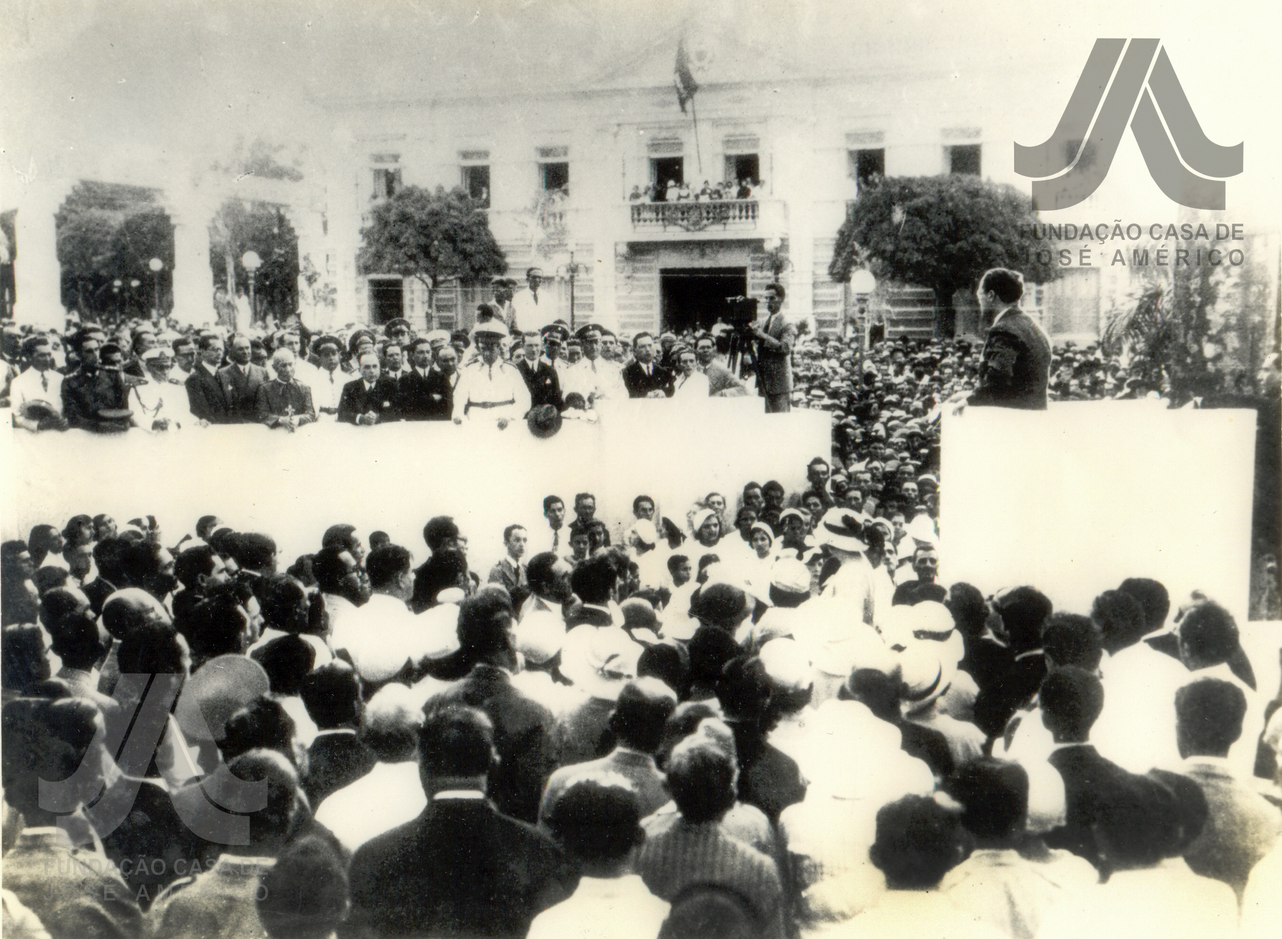
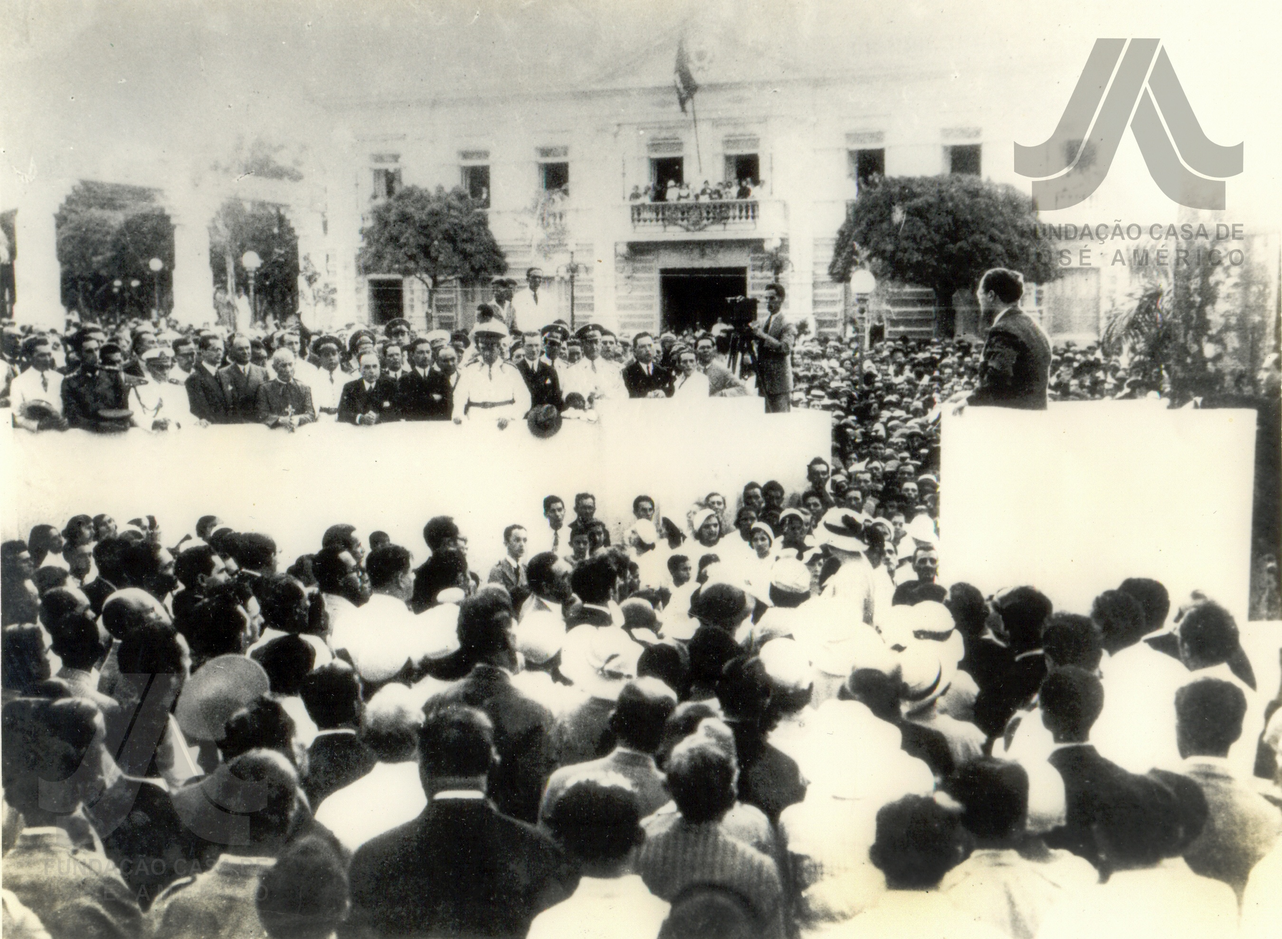
Troca de opacidade para 0.5

Changed region(s): [[0.7781, 0.0309, 0.9959, 0.2468], [0.0934, 0.7405, 0.1245, 0.8022], [0.8714, 0.2468, 0.9026, 0.2777]]

diff --git a/perfil/usuario.html b/perfil/usuario.html
@@ -138,6 +138,71 @@
       </div>
 
       <div class="section">
+        <h2 data-i18n="contentSubmission.title" id="blog_titulo_go">Submissão Para o Blog</h2>
+
+        <div class="upload-area">
+          <label for="blog_titulo" data-i18n="contentSubmission.titleLabel">Título:</label><br />
+          <input type="text" id="blog_titulo" placeholder="Digite o título do item" name="blog_titulo" /><br /><br />
+
+          <label data-i18n="contentSubmission.authorLabel">Autor(a):</label><br />
+          <div class="autores" id="blog_author-input-group">
+            <input type="text" id="blog_autorInput" placeholder="Digite o nome do autor" />
+            <button type="button" id="blog_addAuthorBtn">Adicionar Autor</button>
+            <ul id="blog_authorsList"></ul>
+          </div>        
+
+          <div class="file-upload" id="blog_fileDropProfileArea" onclick="document.getElementById('blog_fileUploadAutor').click()">
+            <p><strong data-i18n="contentSubmission.selectFile">Clique aqui para enviar uma foto de perfil do autor</strong><br /></p>
+            <input type="file" id="blog_fileUploadAutor" name="blog_fileUploadAutor" hidden />
+          </div><br />
+
+          <label for="blog_data" data-i18n="contentSubmission.dataLabel">Data:</label><br />
+          <input type="date" id="blog_data" class="custom-label" placeholder="Digite a data do item" name="blog_data" /><br />
+
+          <label for="blog_lattes" data-i18n="contentSubmission.lattesLabel">Link do Lattes:</label><br />
+          <input type="text" id="blog_lattes" placeholder="Digite o link do lattes do autor" name="blog_lattes" /><br /><br />
+
+          <label for="blog_descricao" data-i18n="contentSubmission.descricaoLabel">Descrição do Item:</label><br />
+          <input type="text" id="blog_descricao" placeholder="Digite a descrição do item" name="blog_descricao" /><br /><br />
+
+          <div class="file-upload" id="blog_fileDropBlogCoverArea" onclick="document.getElementById('blog_fileUploadCapa').click()">
+            <p><strong data-i18n="contentSubmission.selectFile">Clique aqui para selecionar uma capa para o blog</strong><br /></p>
+            <input type="file" id="blog_fileUploadCapa" name="blog_fileUploadCapa" hidden />
+          </div><br />
+
+          <label for="blog_fonte" data-i18n="contentSubmission.fonteLabel">Fonte do Item (origem):</label><br />
+          <input type="text" id="blog_fonte" placeholder="Digite a fonte do item" name="blog_fonte" /><br /><br />
+
+          <label for="blog_annotation" data-i18n="contentSubmission.annotationsLabel">Observações sobre o conteúdo:</label><br />
+          <input type="text" id="blog_annotation" placeholder="Digite Observações sobre o conteúdo" name="blog_annotation" /><br /><br />
+<!--
+                    <div class="editor-wrapper">
+            <div id="blog_toolbar">
+              <select class="ql-header">
+                <option value="1"></option>
+                <option value="2"></option>
+                <option selected></option>
+              </select>
+              <button class="ql-bold"></button>
+              <button class="ql-italic"></button>
+              <button class="ql-underline"></button>
+              <button class="ql-list" value="ordered"></button>
+              <button class="ql-list" value="bullet"></button>
+            </div>
+
+            <div id="blog_editor" class="editor-container"></div>
+          </div>
+
+          <div class="attachments" id="blog_attachments"></div>
+-->
+          <button id="submitContentBtn" data-i18n="contentSubmission.submitButton">Enviar Conteúdo</button>
+          
+
+
+        </div>
+      </div>
+
+      <div class="section">
         <div class="title-container">
           <h2 data-i18n="history.title">Minhas Contribuições</h2>
           <button id="table_extension_contribuicoes" class="table-expanded" style="margin-bottom:10px;">
